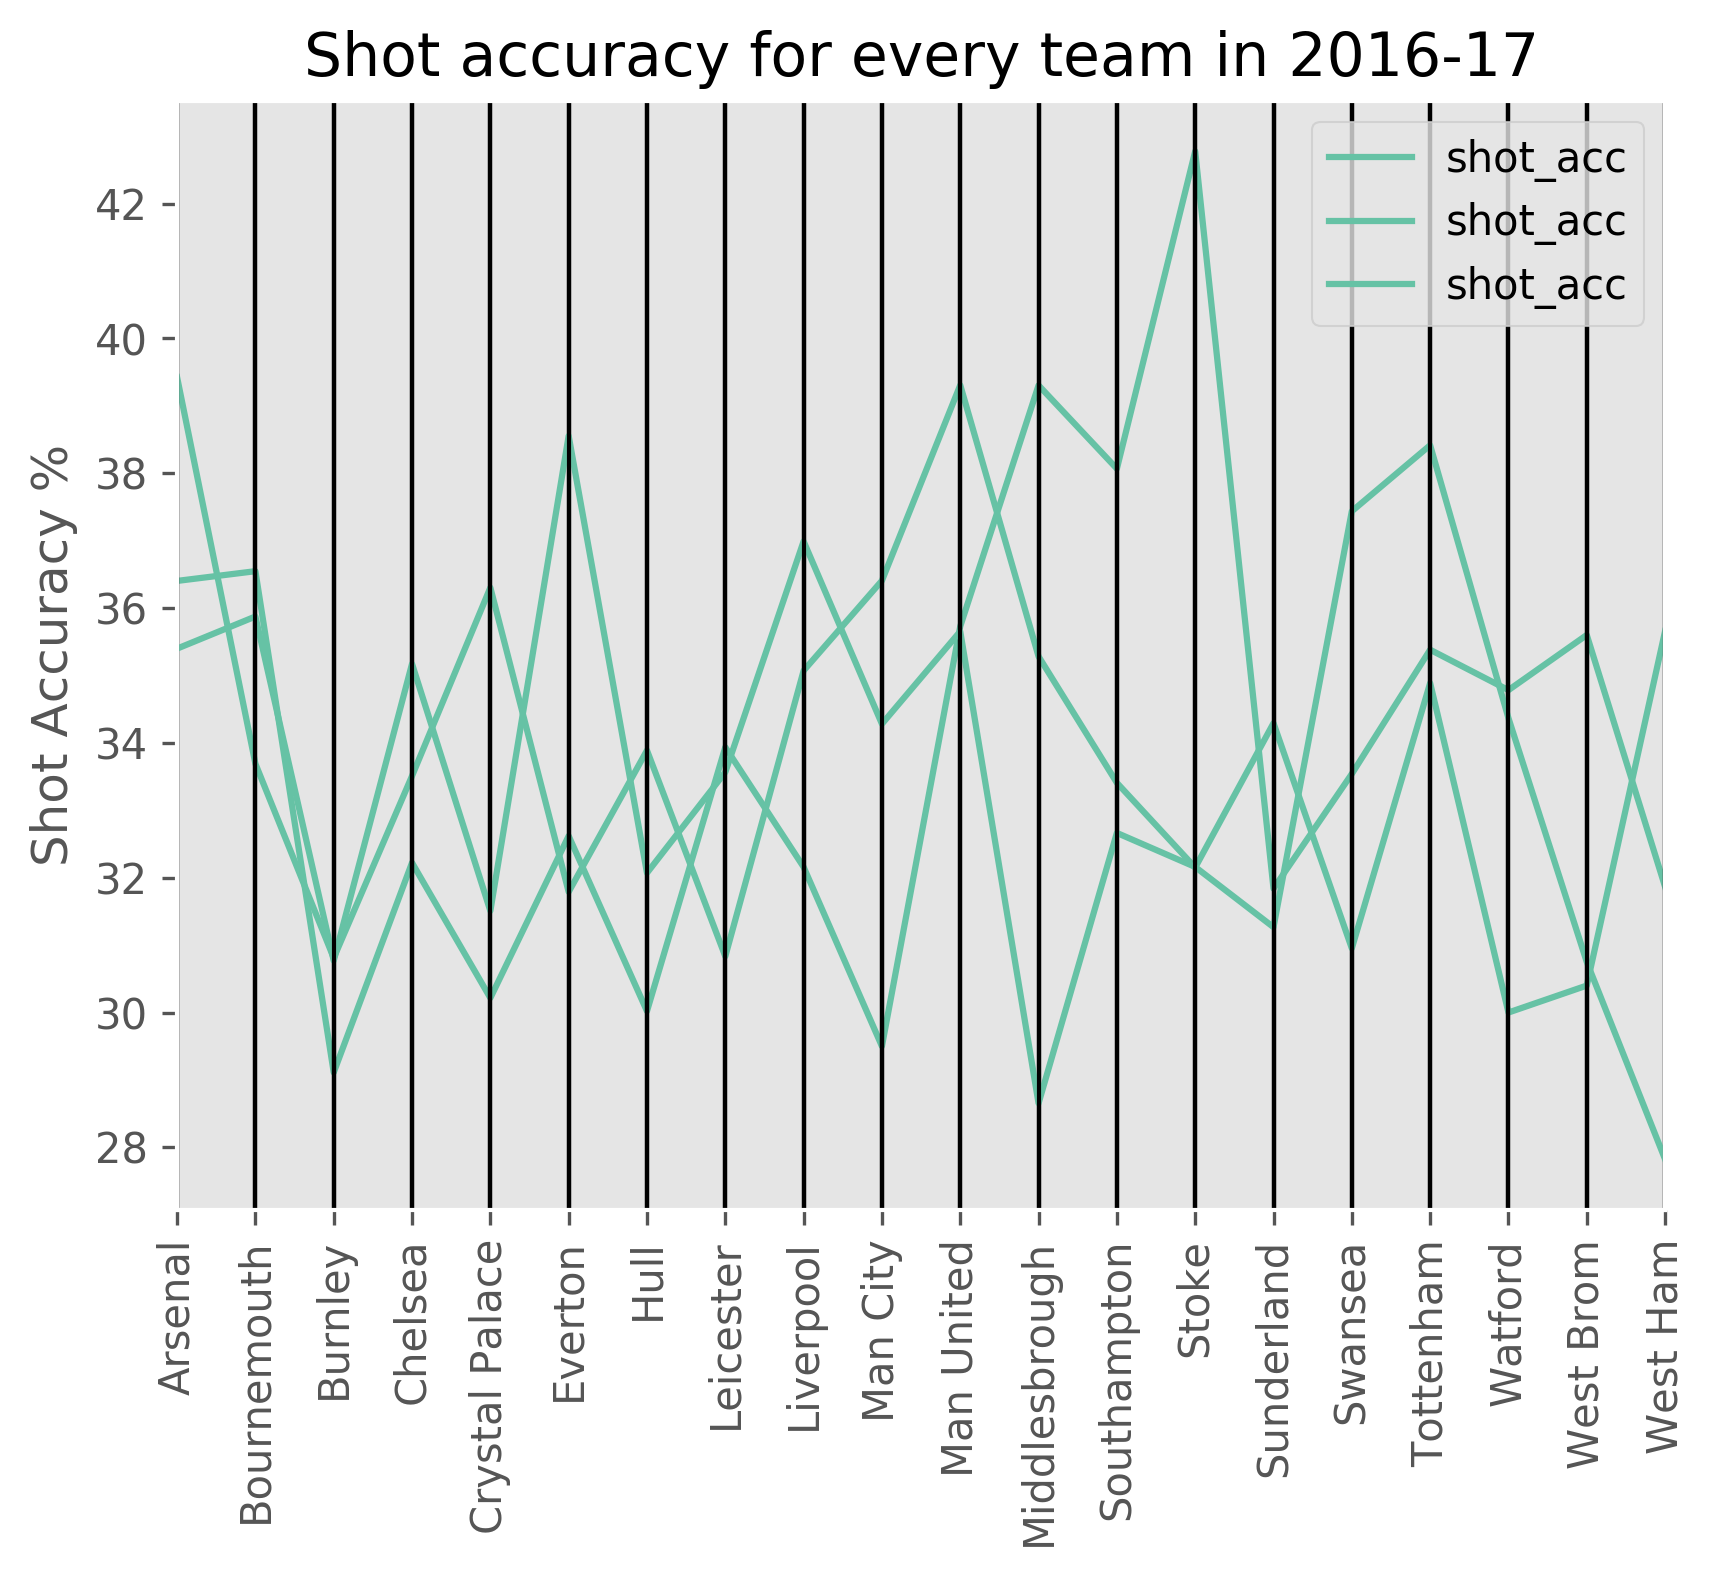
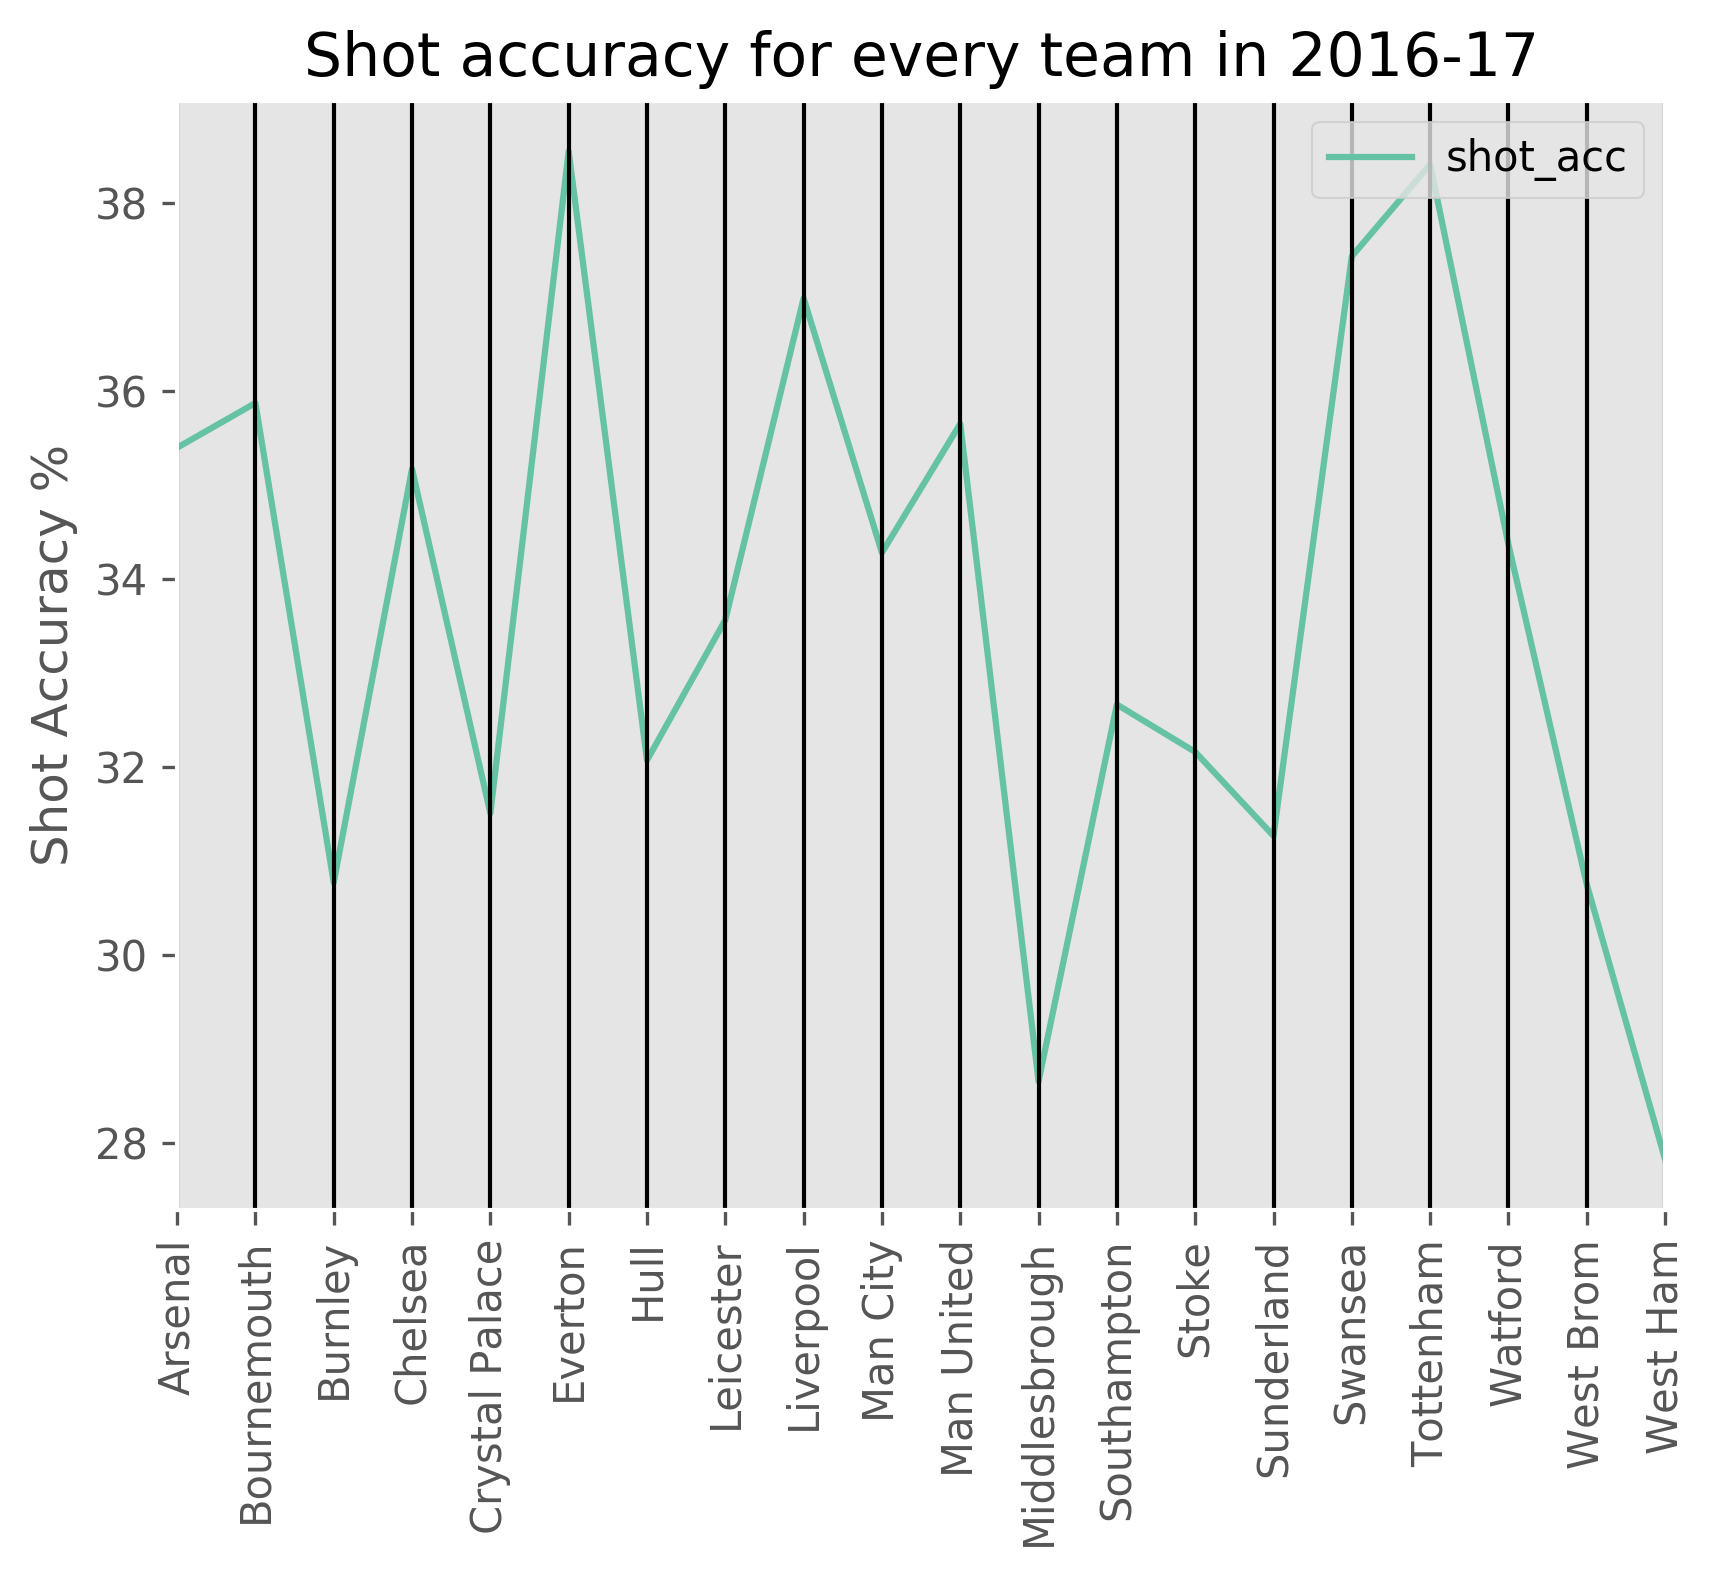
final commit i think

diff --git a/epl/Scripts/scraper_for_target.py b/epl/Scripts/scraper_for_target.py
@@ -1,0 +1,35 @@
+# A function
+def index_name(s):
+    count =0
+    t=''
+    for ch in s:
+        if ch=='/' and count!=6:
+            count+=1
+        elif ch == '?' and count ==6:
+            break
+        elif count==6:
+            t+=ch
+    return t
+
+# Importing Libraries
+
+import pandas as pd
+import time
+from selenium import webdriver
+
+driver = webdriver.Chrome()
+URL = 'https://www.premierleague.com/stats/top/clubs/ontarget_scoring_att?se=210'
+driver.get(URL)
+time.sleep(10)
+
+# here we have all the links we are required to use for a
+# Particular year
+d ={}
+x =driver.find_elements_by_class_name('playerName')
+y = driver.find_elements_by_class_name('mainStat')
+for i in range(len(x)):
+    d[str(x[i].text)]=str(y[i+1].text)
+Year_frame =pd.DataFrame(d,index=[index_name(URL)])
+Year_frame
+
+Year_frame.to_csv('/home/arshreality/Desktop/EPL_Data/epl/Datasets/new/test18.csv')

diff --git a/epl/Scripts/top6.py b/epl/Scripts/top6.py
@@ -7,11 +7,12 @@ while True:
     x= str(x).zfill(2)
     y = str(y).zfill(2)
     df = pd.read_csv('/home/arshreality/Desktop/EPL_Data/epl/Datasets/Transposed shot accuracy/{0}{1}new.csv'.format(x,y),index_col=0)
-    df = df[['Arsenal','Chelsea','Everton','Liverpool','Manchester United','Tottenham Hotspur']]
+    df = df[['Arsenal','Chelsea','Everton','Liverpool','Man United','Tottenham']]
     df = df.rename_axis(None)
     df.rename(index = {"shot_acc": "20{0}-{1}".format(x,y),}, inplace = True)
     df.to_csv('/home/arshreality/Desktop/EPL_Data/epl/Datasets/Transposed shot accuracy top 6/{0}{1}newnew.csv'.format(x,y), sep=',', encoding='utf-8',index_label = 'team', index = True)
     x = int(x)
     y = int(y)
-    if x == 0:
+    print(x,y)
+    if x == 7:
         break

diff --git a/epl/Scripts/areagraph.py b/epl/Scripts/areagraph.py
@@ -19,11 +19,9 @@ while True:
     plt.ylabel("Shot Accuracy %")
     plt.title('Shot accuracy for every team in 20{0}-{1}'.format(x,y))
     fig1 = plt.gcf()
-    # plt.show()
+    plt.show()
     fig1.savefig('/home/arshreality/Desktop/EPL_Data/epl/Images/shot_acc_for_20{0}-{1}.png'.format(x,y), dpi=300, bbox_inches='tight')
     x = int(x)
     y = int(y)
-    x
-    y
-    if x == 0:
+    if x == 7:
         break

diff --git a/epl/Scripts/transpose_data.py b/epl/Scripts/transpose_data.py
@@ -28,5 +28,5 @@ while True:
     x = int(x)
     y = int(y)
     print(x,y)
-    if x == 0:
+    if x == 7:
         break
